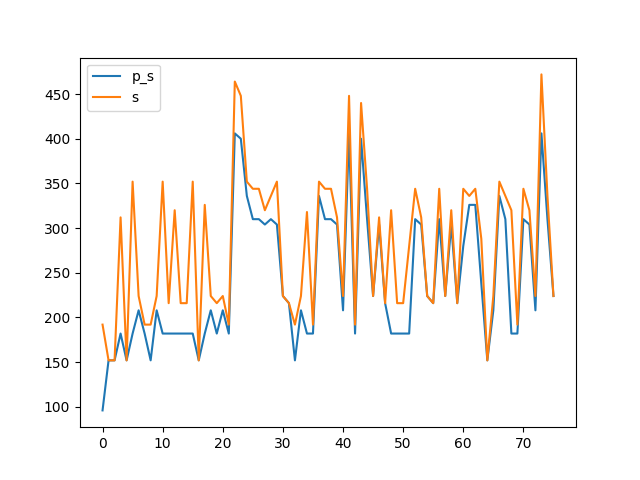
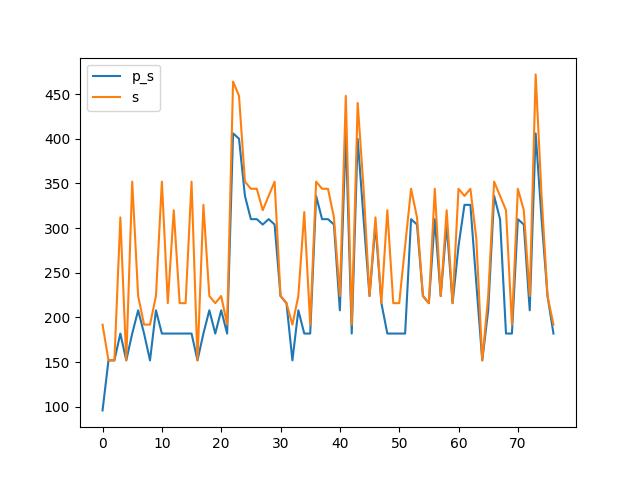
0x004C

diff --git a/benchmark.md b/benchmark.md
@@ -150,16 +150,18 @@ Synthesising 0x004A pexact:310 r=5 exact:336 r=4
 
 Synthesising 0x004B pexact:224 r=3 exact:224 r=3
 
+Synthesising 0x004C pexact:182 r=4 exact:192 r=3
+
 ```mermaid
 xychart-beta
     title "Comparison powertwoexact twoexact"
-    x-axis [0, 1, 2, 3, 4, 5, 6, 7, 8, 9, 10, 11, 12, 13, 14, 15, 16, 17, 18, 19, 20, 21, 22, 23, 24, 25, 26, 27, 28, 29, 30, 31, 32, 33, 34, 35, 36, 37, 38, 39, 40, 41, 42, 43, 44, 45, 46, 47, 48, 49, 50, 51, 52, 53, 54, 55, 56, 57, 58, 59, 60, 61, 62, 63, 64, 65, 66, 67, 68, 69, 70, 71, 72, 73, 74, 75]
+    x-axis [0, 1, 2, 3, 4, 5, 6, 7, 8, 9, 10, 11, 12, 13, 14, 15, 16, 17, 18, 19, 20, 21, 22, 23, 24, 25, 26, 27, 28, 29, 30, 31, 32, 33, 34, 35, 36, 37, 38, 39, 40, 41, 42, 43, 44, 45, 46, 47, 48, 49, 50, 51, 52, 53, 54, 55, 56, 57, 58, 59, 60, 61, 62, 63, 64, 65, 66, 67, 68, 69, 70, 71, 72, 73, 74, 75, 76]
     y-axis "Switching Activity" 0-->472
-    line [96, 152, 152, 182, 152, 182, 208, 182, 152, 208, 182, 182, 182, 182, 182, 182, 152, 182, 208, 182, 208, 182, 406, 400, 336, 310, 310, 304, 310, 304, 224, 216, 152, 208, 182, 182, 336, 310, 310, 304, 208, 406, 182, 400, 310, 224, 304, 216, 182, 182, 182, 182, 310, 304, 224, 216, 310, 224, 304, 216, 280, 326, 326, 238, 152, 208, 336, 310, 182, 182, 310, 304, 208, 406, 310, 224]
-    line [192, 152, 152, 312, 152, 352, 224, 192, 192, 224, 352, 216, 320, 216, 216, 352, 152, 326, 224, 216, 224, 192, 464, 448, 352, 344, 344, 320, 336, 352, 224, 216, 192, 224, 318, 192, 352, 344, 344, 312, 224, 448, 192, 440, 344, 224, 312, 216, 320, 216, 216, 280, 344, 312, 224, 216, 344, 224, 320, 216, 344, 336, 344, 288, 152, 224, 352, 336, 320, 192, 344, 320, 224, 472, 336, 224]
-    line [241.6315789473684, 241.6315789473684, 241.6315789473684, 241.6315789473684, 241.6315789473684, 241.6315789473684, 241.6315789473684, 241.6315789473684, 241.6315789473684, 241.6315789473684, 241.6315789473684, 241.6315789473684, 241.6315789473684, 241.6315789473684, 241.6315789473684, 241.6315789473684, 241.6315789473684, 241.6315789473684, 241.6315789473684, 241.6315789473684, 241.6315789473684, 241.6315789473684, 241.6315789473684, 241.6315789473684, 241.6315789473684, 241.6315789473684, 241.6315789473684, 241.6315789473684, 241.6315789473684, 241.6315789473684, 241.6315789473684, 241.6315789473684, 241.6315789473684, 241.6315789473684, 241.6315789473684, 241.6315789473684, 241.6315789473684, 241.6315789473684, 241.6315789473684, 241.6315789473684, 241.6315789473684, 241.6315789473684, 241.6315789473684, 241.6315789473684, 241.6315789473684, 241.6315789473684, 241.6315789473684, 241.6315789473684, 241.6315789473684, 241.6315789473684, 241.6315789473684, 241.6315789473684, 241.6315789473684, 241.6315789473684, 241.6315789473684, 241.6315789473684, 241.6315789473684, 241.6315789473684, 241.6315789473684, 241.6315789473684, 241.6315789473684, 241.6315789473684, 241.6315789473684, 241.6315789473684, 241.6315789473684, 241.6315789473684, 241.6315789473684, 241.6315789473684, 241.6315789473684, 241.6315789473684, 241.6315789473684, 241.6315789473684, 241.6315789473684, 241.6315789473684, 241.6315789473684, 241.6315789473684]
-    line [279.8421052631579, 279.8421052631579, 279.8421052631579, 279.8421052631579, 279.8421052631579, 279.8421052631579, 279.8421052631579, 279.8421052631579, 279.8421052631579, 279.8421052631579, 279.8421052631579, 279.8421052631579, 279.8421052631579, 279.8421052631579, 279.8421052631579, 279.8421052631579, 279.8421052631579, 279.8421052631579, 279.8421052631579, 279.8421052631579, 279.8421052631579, 279.8421052631579, 279.8421052631579, 279.8421052631579, 279.8421052631579, 279.8421052631579, 279.8421052631579, 279.8421052631579, 279.8421052631579, 279.8421052631579, 279.8421052631579, 279.8421052631579, 279.8421052631579, 279.8421052631579, 279.8421052631579, 279.8421052631579, 279.8421052631579, 279.8421052631579, 279.8421052631579, 279.8421052631579, 279.8421052631579, 279.8421052631579, 279.8421052631579, 279.8421052631579, 279.8421052631579, 279.8421052631579, 279.8421052631579, 279.8421052631579, 279.8421052631579, 279.8421052631579, 279.8421052631579, 279.8421052631579, 279.8421052631579, 279.8421052631579, 279.8421052631579, 279.8421052631579, 279.8421052631579, 279.8421052631579, 279.8421052631579, 279.8421052631579, 279.8421052631579, 279.8421052631579, 279.8421052631579, 279.8421052631579, 279.8421052631579, 279.8421052631579, 279.8421052631579, 279.8421052631579, 279.8421052631579, 279.8421052631579, 279.8421052631579, 279.8421052631579, 279.8421052631579, 279.8421052631579, 279.8421052631579, 279.8421052631579]
-    bar [80, 60, 60, 80, 60, 80, 80, 80, 60, 80, 80, 80, 80, 80, 80, 80, 60, 80, 80, 80, 80, 80, 120, 120, 100, 100, 100, 100, 100, 100, 60, 60, 60, 80, 80, 80, 100, 100, 100, 100, 80, 120, 80, 120, 100, 60, 100, 60, 80, 80, 80, 80, 100, 100, 60, 60, 100, 60, 100, 60, 80, 100, 100, 100, 60, 80, 100, 100, 80, 80, 100, 100, 80, 120, 100, 60]
-    bar [80, 60, 60, 80, 60, 80, 60, 60, 60, 60, 80, 60, 80, 60, 60, 80, 60, 80, 60, 60, 60, 60, 100, 100, 80, 80, 80, 80, 80, 80, 60, 60, 60, 60, 80, 60, 80, 80, 80, 80, 60, 100, 60, 100, 80, 60, 80, 60, 80, 60, 60, 80, 80, 80, 60, 60, 80, 60, 80, 60, 80, 80, 80, 80, 60, 60, 80, 80, 80, 60, 80, 80, 60, 100, 80, 60]
+    line [96, 152, 152, 182, 152, 182, 208, 182, 152, 208, 182, 182, 182, 182, 182, 182, 152, 182, 208, 182, 208, 182, 406, 400, 336, 310, 310, 304, 310, 304, 224, 216, 152, 208, 182, 182, 336, 310, 310, 304, 208, 406, 182, 400, 310, 224, 304, 216, 182, 182, 182, 182, 310, 304, 224, 216, 310, 224, 304, 216, 280, 326, 326, 238, 152, 208, 336, 310, 182, 182, 310, 304, 208, 406, 310, 224, 182]
+    line [192, 152, 152, 312, 152, 352, 224, 192, 192, 224, 352, 216, 320, 216, 216, 352, 152, 326, 224, 216, 224, 192, 464, 448, 352, 344, 344, 320, 336, 352, 224, 216, 192, 224, 318, 192, 352, 344, 344, 312, 224, 448, 192, 440, 344, 224, 312, 216, 320, 216, 216, 280, 344, 312, 224, 216, 344, 224, 320, 216, 344, 336, 344, 288, 152, 224, 352, 336, 320, 192, 344, 320, 224, 472, 336, 224, 192]
+    line [240.85714285714286, 240.85714285714286, 240.85714285714286, 240.85714285714286, 240.85714285714286, 240.85714285714286, 240.85714285714286, 240.85714285714286, 240.85714285714286, 240.85714285714286, 240.85714285714286, 240.85714285714286, 240.85714285714286, 240.85714285714286, 240.85714285714286, 240.85714285714286, 240.85714285714286, 240.85714285714286, 240.85714285714286, 240.85714285714286, 240.85714285714286, 240.85714285714286, 240.85714285714286, 240.85714285714286, 240.85714285714286, 240.85714285714286, 240.85714285714286, 240.85714285714286, 240.85714285714286, 240.85714285714286, 240.85714285714286, 240.85714285714286, 240.85714285714286, 240.85714285714286, 240.85714285714286, 240.85714285714286, 240.85714285714286, 240.85714285714286, 240.85714285714286, 240.85714285714286, 240.85714285714286, 240.85714285714286, 240.85714285714286, 240.85714285714286, 240.85714285714286, 240.85714285714286, 240.85714285714286, 240.85714285714286, 240.85714285714286, 240.85714285714286, 240.85714285714286, 240.85714285714286, 240.85714285714286, 240.85714285714286, 240.85714285714286, 240.85714285714286, 240.85714285714286, 240.85714285714286, 240.85714285714286, 240.85714285714286, 240.85714285714286, 240.85714285714286, 240.85714285714286, 240.85714285714286, 240.85714285714286, 240.85714285714286, 240.85714285714286, 240.85714285714286, 240.85714285714286, 240.85714285714286, 240.85714285714286, 240.85714285714286, 240.85714285714286, 240.85714285714286, 240.85714285714286, 240.85714285714286, 240.85714285714286]
+    line [278.7012987012987, 278.7012987012987, 278.7012987012987, 278.7012987012987, 278.7012987012987, 278.7012987012987, 278.7012987012987, 278.7012987012987, 278.7012987012987, 278.7012987012987, 278.7012987012987, 278.7012987012987, 278.7012987012987, 278.7012987012987, 278.7012987012987, 278.7012987012987, 278.7012987012987, 278.7012987012987, 278.7012987012987, 278.7012987012987, 278.7012987012987, 278.7012987012987, 278.7012987012987, 278.7012987012987, 278.7012987012987, 278.7012987012987, 278.7012987012987, 278.7012987012987, 278.7012987012987, 278.7012987012987, 278.7012987012987, 278.7012987012987, 278.7012987012987, 278.7012987012987, 278.7012987012987, 278.7012987012987, 278.7012987012987, 278.7012987012987, 278.7012987012987, 278.7012987012987, 278.7012987012987, 278.7012987012987, 278.7012987012987, 278.7012987012987, 278.7012987012987, 278.7012987012987, 278.7012987012987, 278.7012987012987, 278.7012987012987, 278.7012987012987, 278.7012987012987, 278.7012987012987, 278.7012987012987, 278.7012987012987, 278.7012987012987, 278.7012987012987, 278.7012987012987, 278.7012987012987, 278.7012987012987, 278.7012987012987, 278.7012987012987, 278.7012987012987, 278.7012987012987, 278.7012987012987, 278.7012987012987, 278.7012987012987, 278.7012987012987, 278.7012987012987, 278.7012987012987, 278.7012987012987, 278.7012987012987, 278.7012987012987, 278.7012987012987, 278.7012987012987, 278.7012987012987, 278.7012987012987, 278.7012987012987]
+    bar [80, 60, 60, 80, 60, 80, 80, 80, 60, 80, 80, 80, 80, 80, 80, 80, 60, 80, 80, 80, 80, 80, 120, 120, 100, 100, 100, 100, 100, 100, 60, 60, 60, 80, 80, 80, 100, 100, 100, 100, 80, 120, 80, 120, 100, 60, 100, 60, 80, 80, 80, 80, 100, 100, 60, 60, 100, 60, 100, 60, 80, 100, 100, 100, 60, 80, 100, 100, 80, 80, 100, 100, 80, 120, 100, 60, 80]
+    bar [80, 60, 60, 80, 60, 80, 60, 60, 60, 60, 80, 60, 80, 60, 60, 80, 60, 80, 60, 60, 60, 60, 100, 100, 80, 80, 80, 80, 80, 80, 60, 60, 60, 60, 80, 60, 80, 80, 80, 80, 60, 100, 60, 100, 80, 60, 80, 60, 80, 60, 60, 80, 80, 80, 60, 60, 80, 60, 80, 60, 80, 80, 80, 80, 60, 60, 80, 80, 80, 60, 80, 80, 60, 100, 80, 60, 60]
 ```
 
